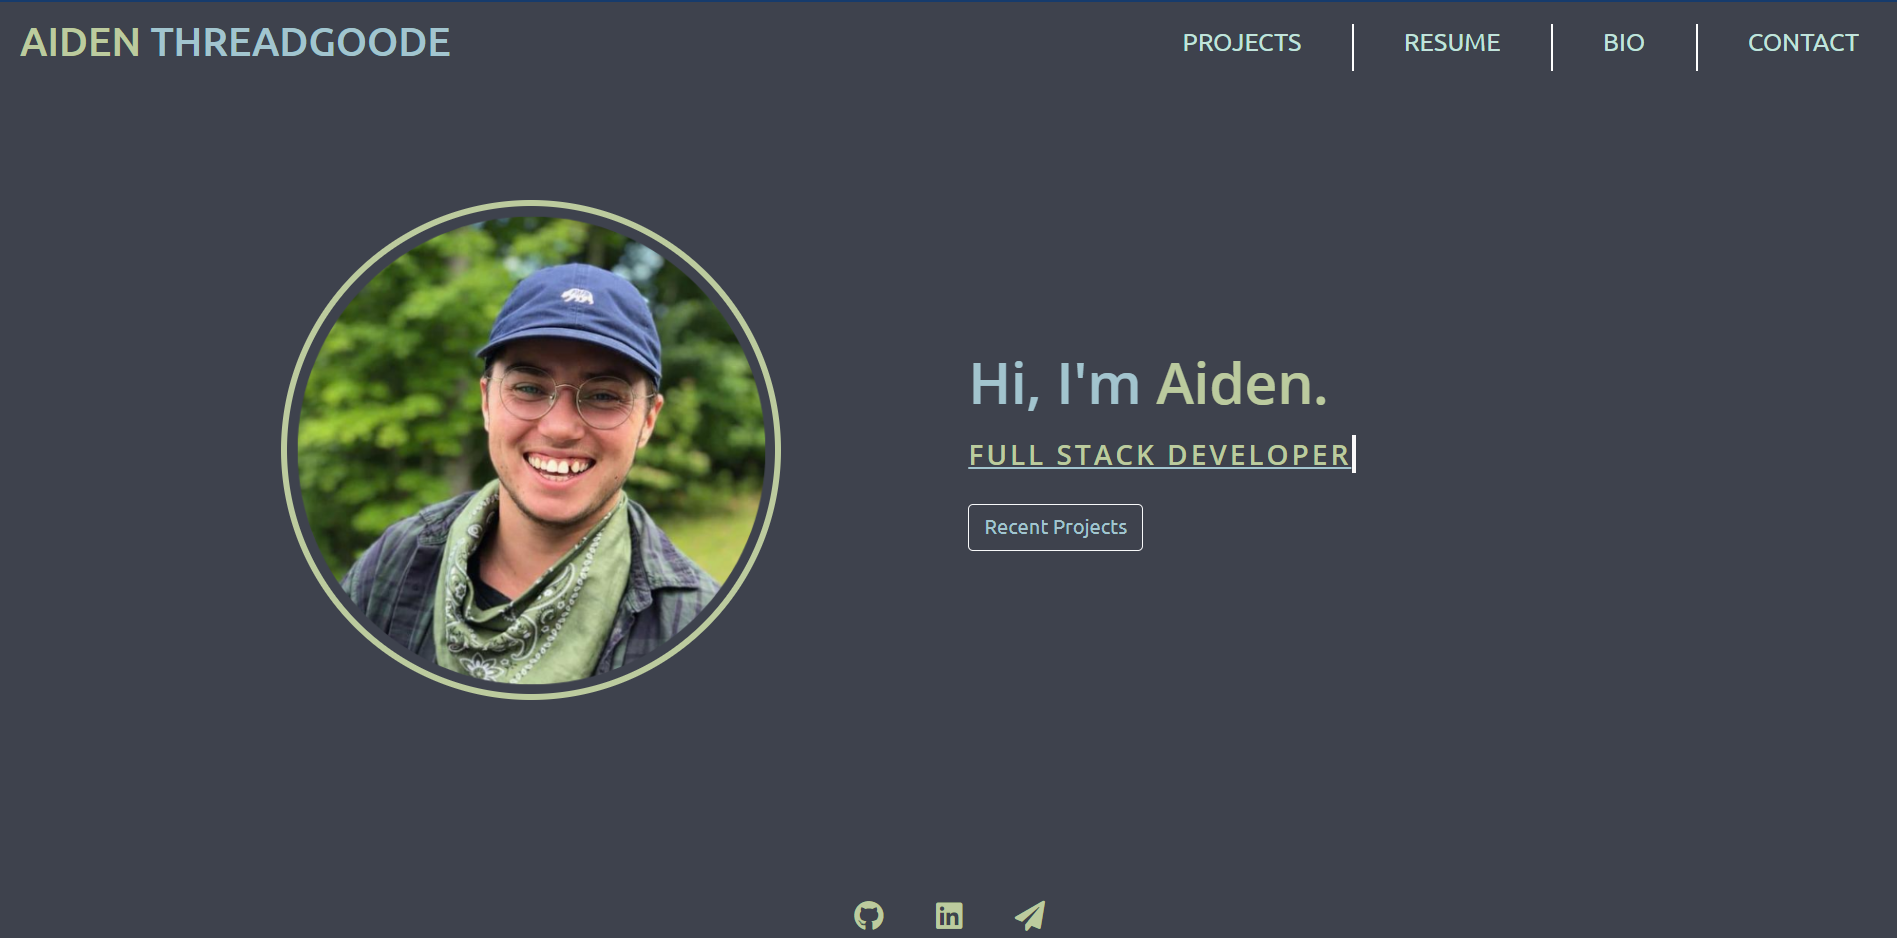
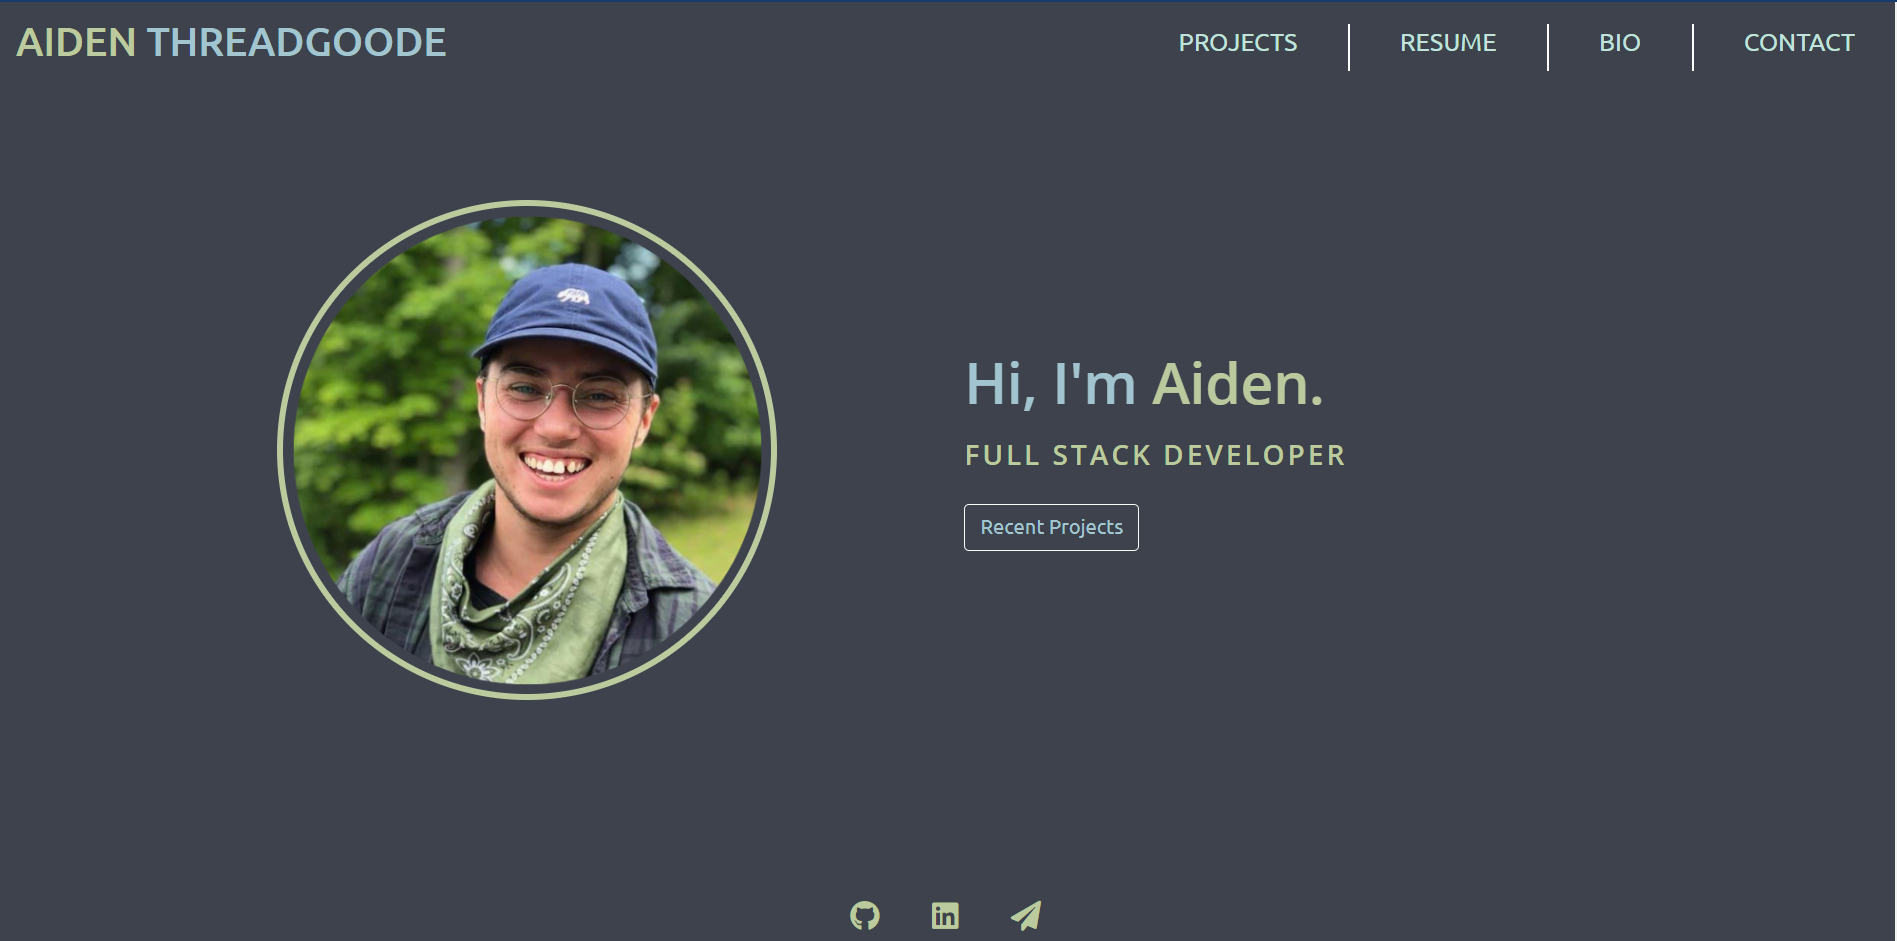
removing underline in typewrite and updating image

diff --git a/assets/css/style.css b/assets/css/style.css
@@ -138,21 +138,16 @@ h3 {
     font-size: 38px;
 }
 
-span.typewrite {
-    color: #BBCB9F;
-    text-decoration: underline;
-    text-decoration-color: #9FC5CE;
-    font-size: 3vh;
-}
-
 /* typwriter Descriptor */
 
-.typewrite {
+span.typewrite {
+    color: #BBCB9F;
+    text-decoration-color: #9FC5CE;
+    font-size: 3vh;
     overflow: hidden;
     border-right: .15em solid #faf9f9;
     white-space: nowrap;
     margin: 0 auto;
-    text-decoration: underline;
     text-decoration-color: #BBCB9F;
     font-size: 3vh;
     letter-spacing: .1em;
